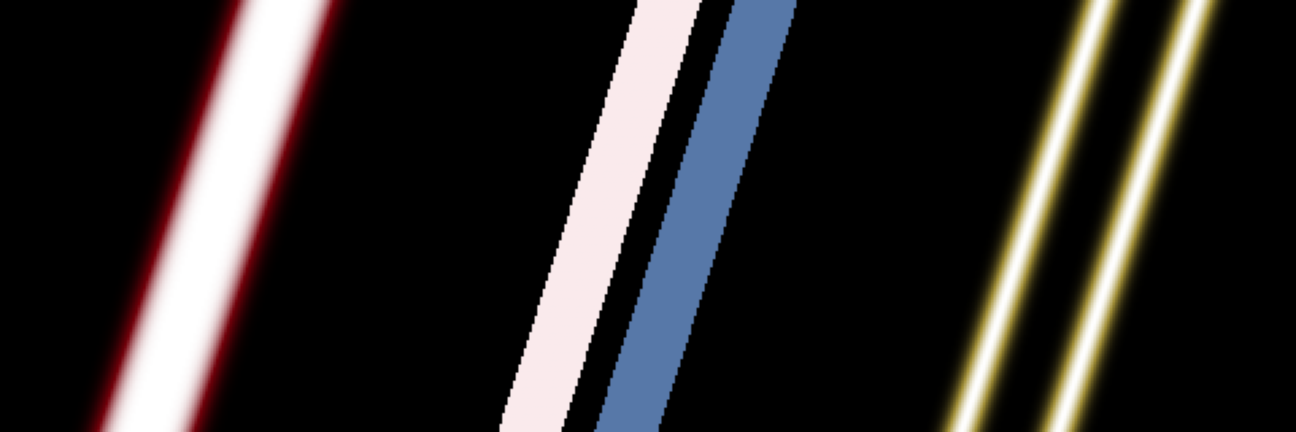
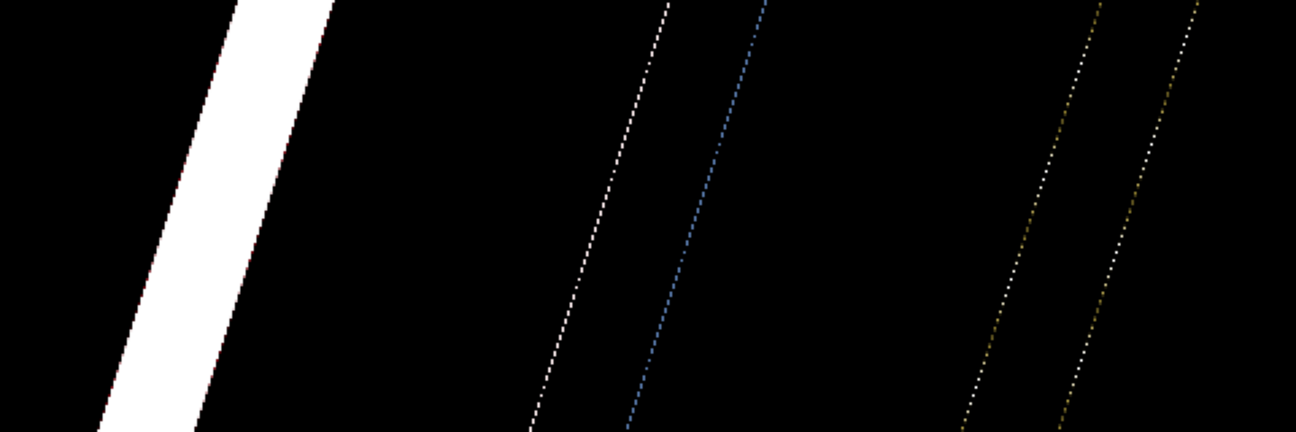
Update smoothed bar preview

Changed region(s): [[0.3704, 0.0, 0.6173, 1.0], [0.7099, 0.0, 0.9568, 1.0], [0.0617, 0.0, 0.2778, 1.0]]

diff --git a/agfb-generators/docs/smoothed-bar-preview/plot_smoothed_bar_preview.py b/agfb-generators/docs/smoothed-bar-preview/plot_smoothed_bar_preview.py
@@ -21,7 +21,7 @@ with torch.no_grad():
         160,
         bar_width=34,
         angle_rad=math.radians(18),
-        edge_sigma=4,
+        edge_sigma=0.1,
         device=device,
     )
     intensity = frame.I[0].cpu()